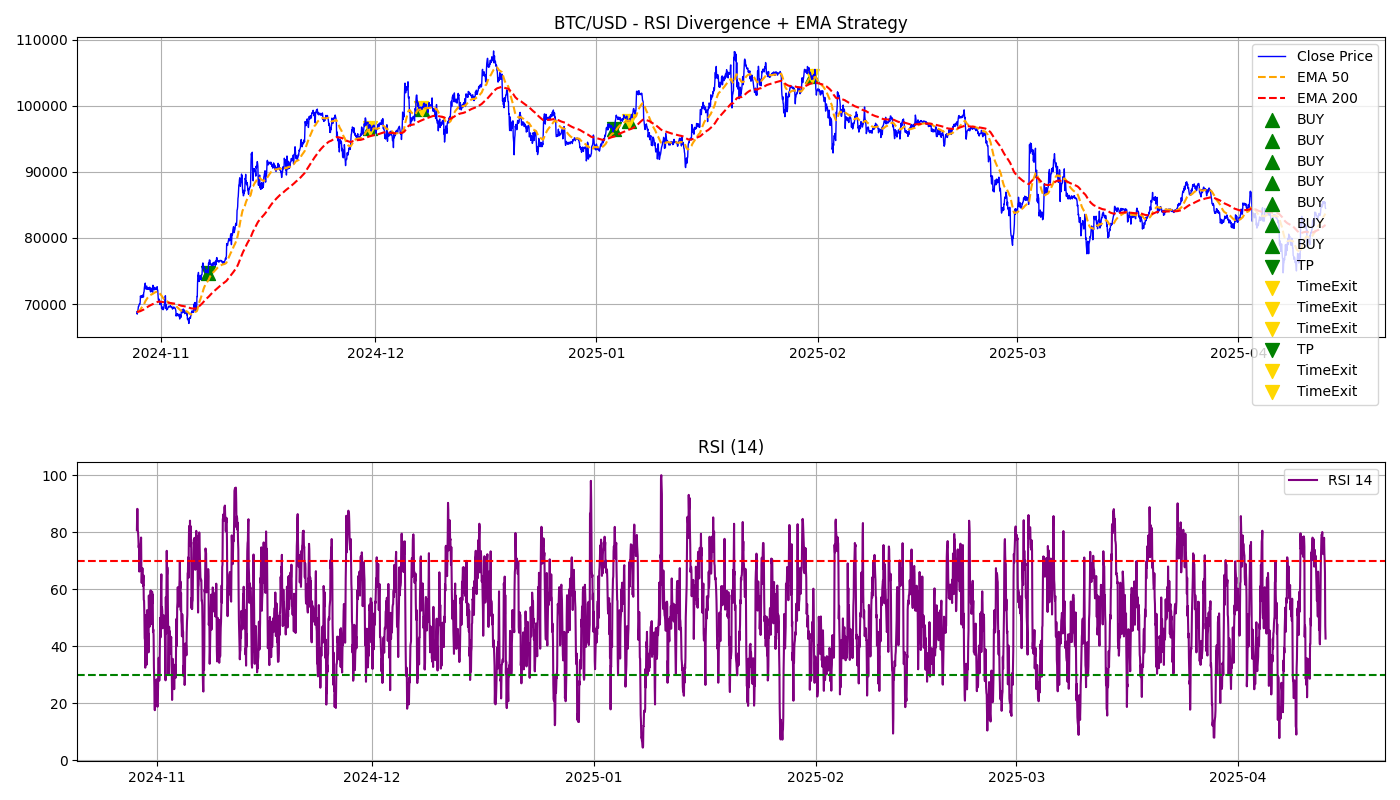
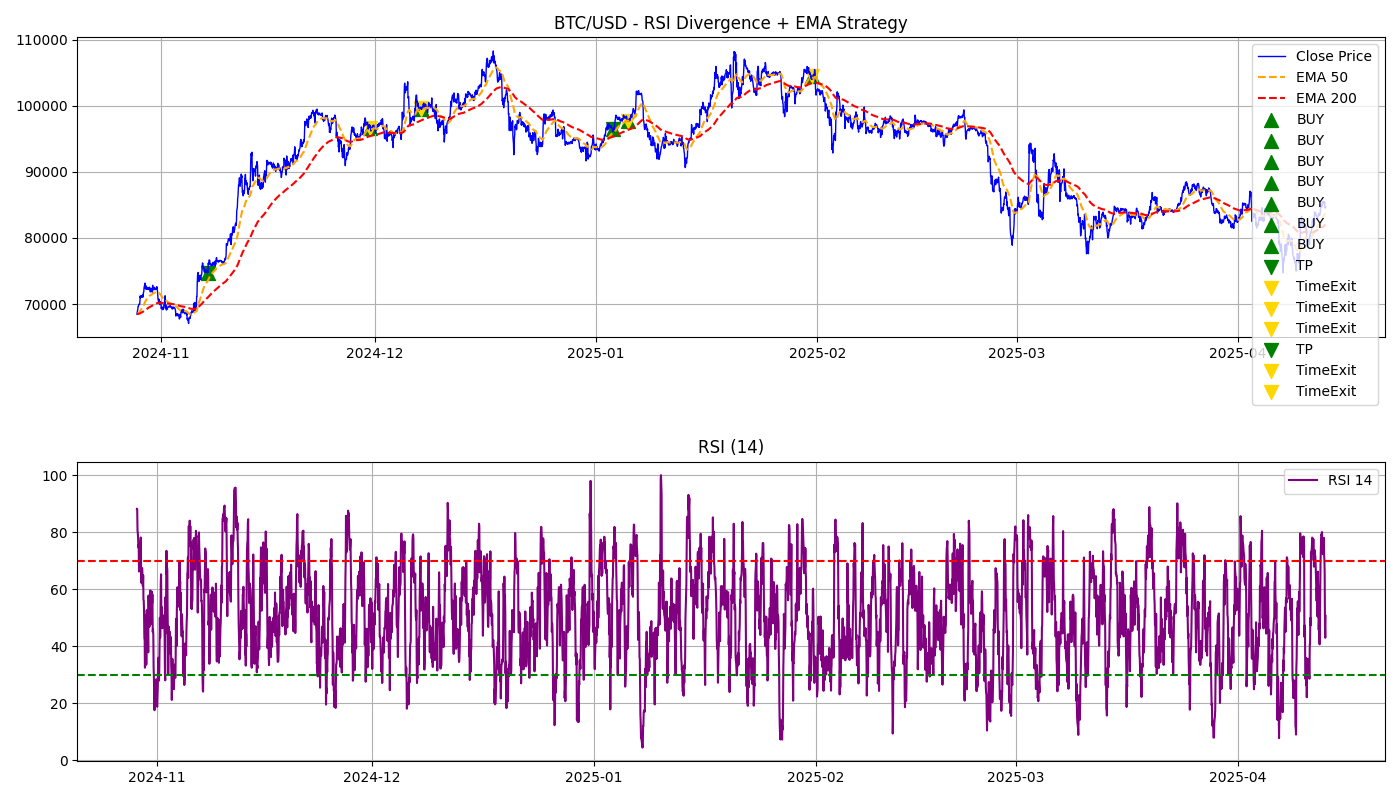
Updated strategy logic and chart export on April 13

diff --git a/rsi_divergence_ema.py b/rsi_divergence_ema.py
@@ -69,7 +69,7 @@ def calculate_max_drawdown(pnl_list):
         drawdowns.append(drawdown)
     return max(drawdowns)
 
-def backtest_with_tp_sl(df, signals, tp_pct=0.015, sl_pct=0.01, max_hold=10):
+def backtest_with_tp_sl(df, signals, tp_pct=0.02, sl_pct=0.01, max_hold=10):
     trades = []
     pnl = []
 

diff --git a/README.md b/README.md
@@ -9,7 +9,7 @@ This repository implements a simple but powerful trading strategy based on:
 - Fetches BTC/USD historical data (via Twelve Data)
 - Identifies RSI divergence-based BUY signals
 - Confirms trend using EMA-50 > EMA-200
-- Backtests with TP = 1.5%, SL = 1%, max hold = 10 candles
+- Backtests with TP = 2%, SL = 1%, max hold = 10 candles
 - Exports trade results to CSV
 
 ### 🧠 Accuracy
